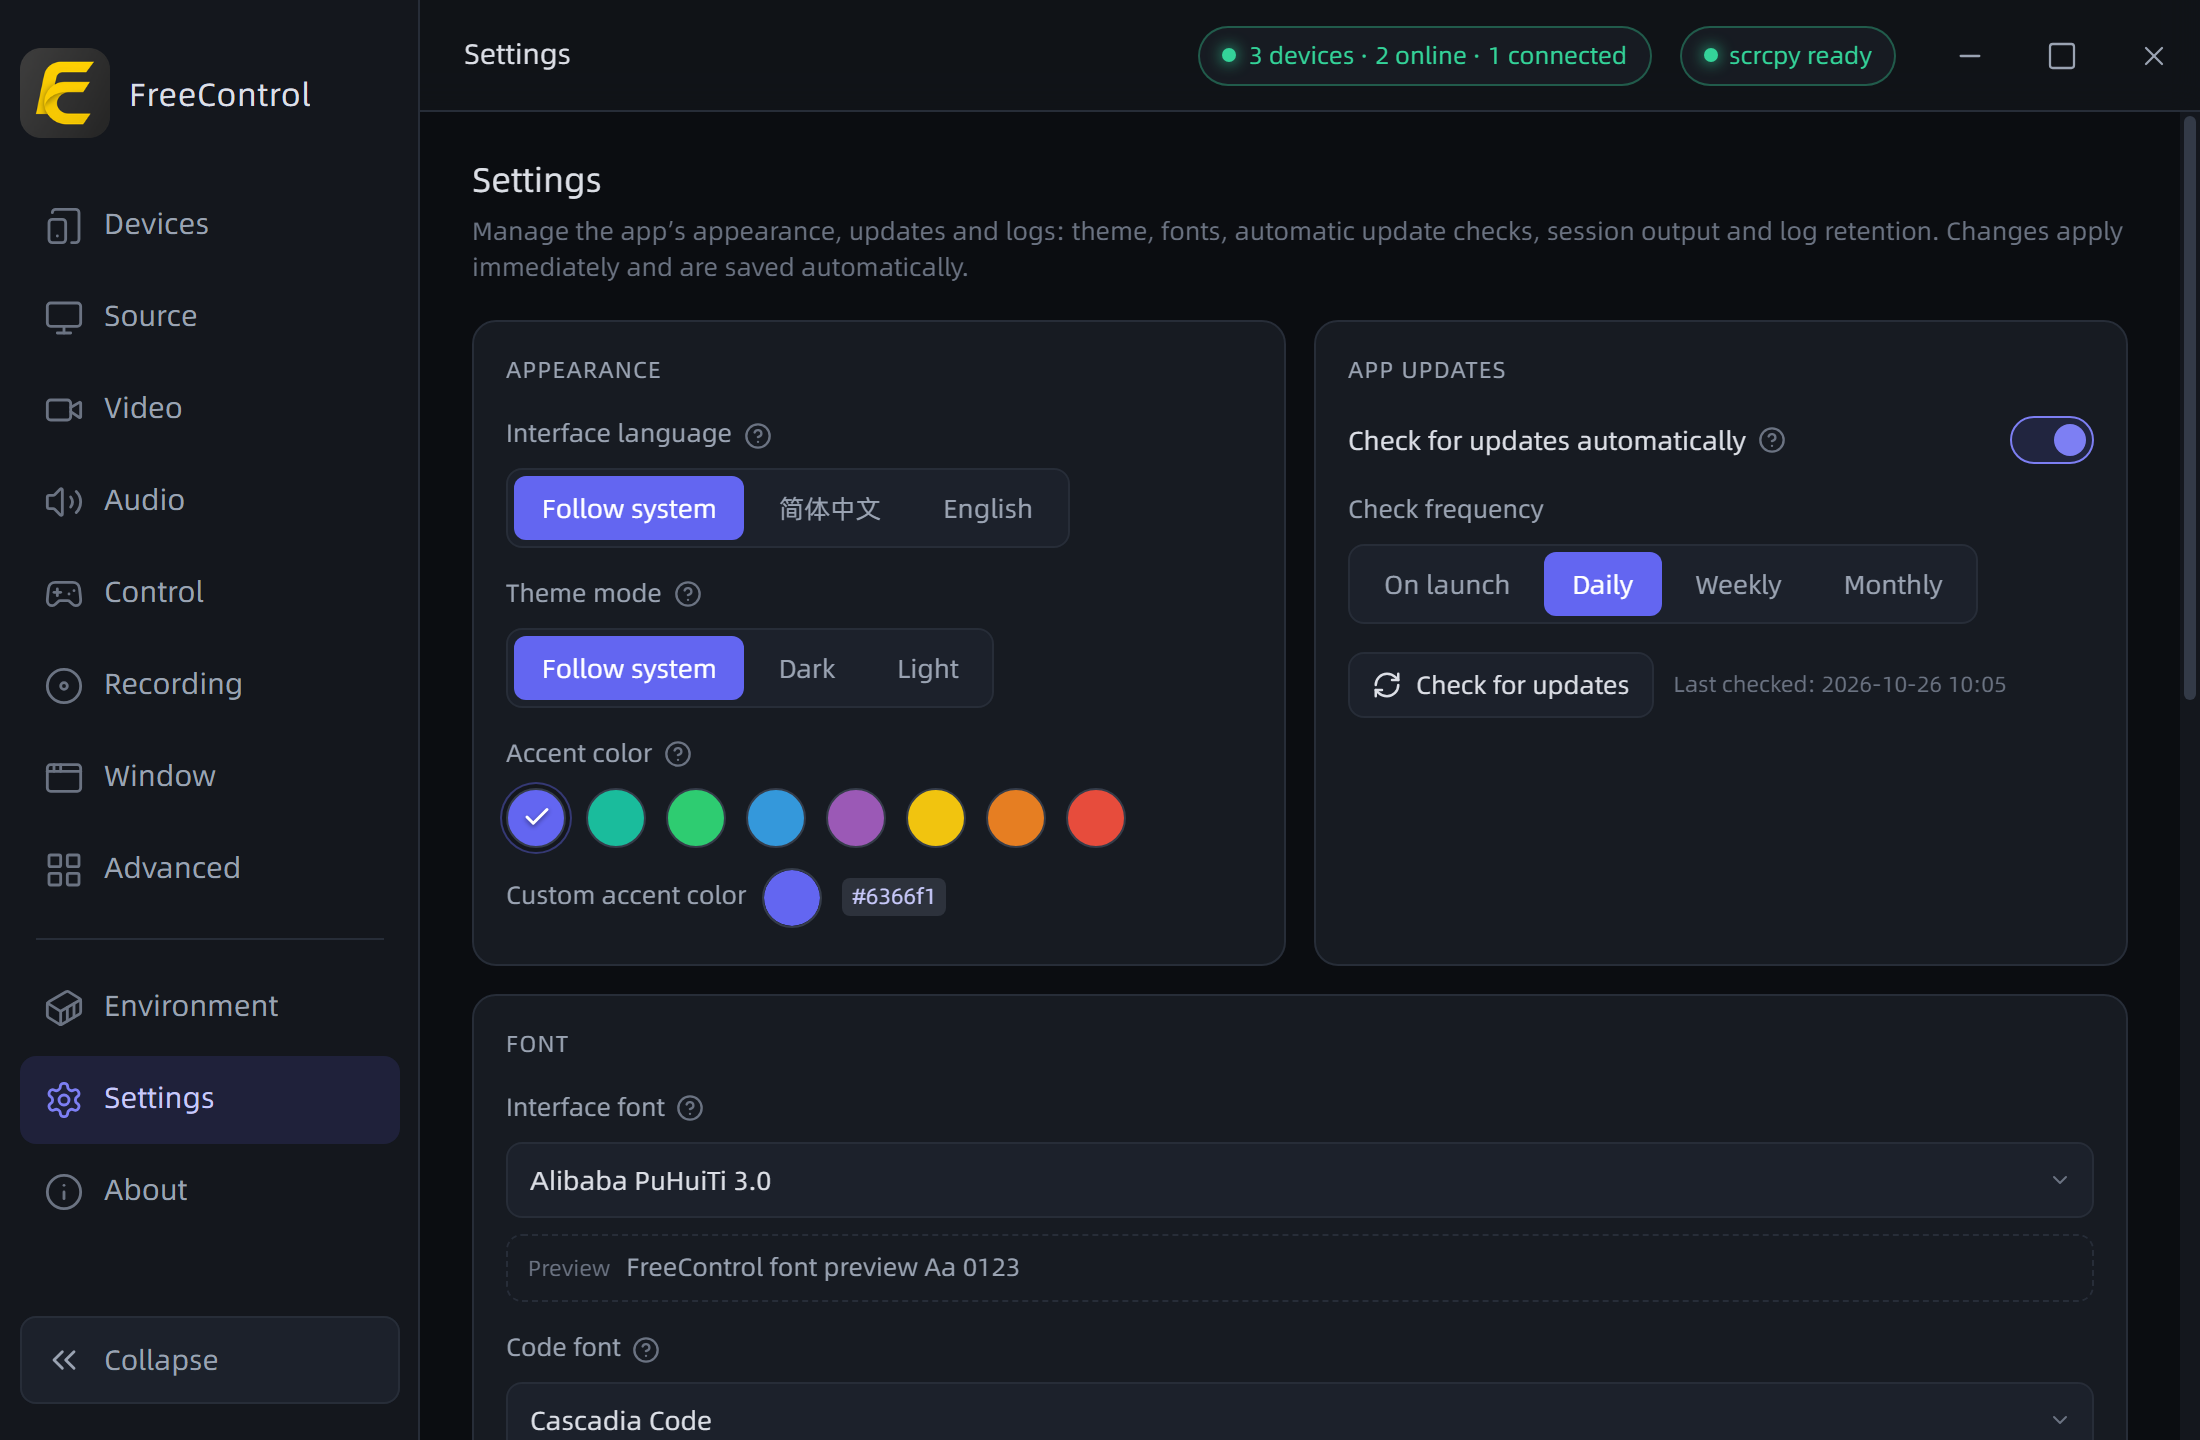
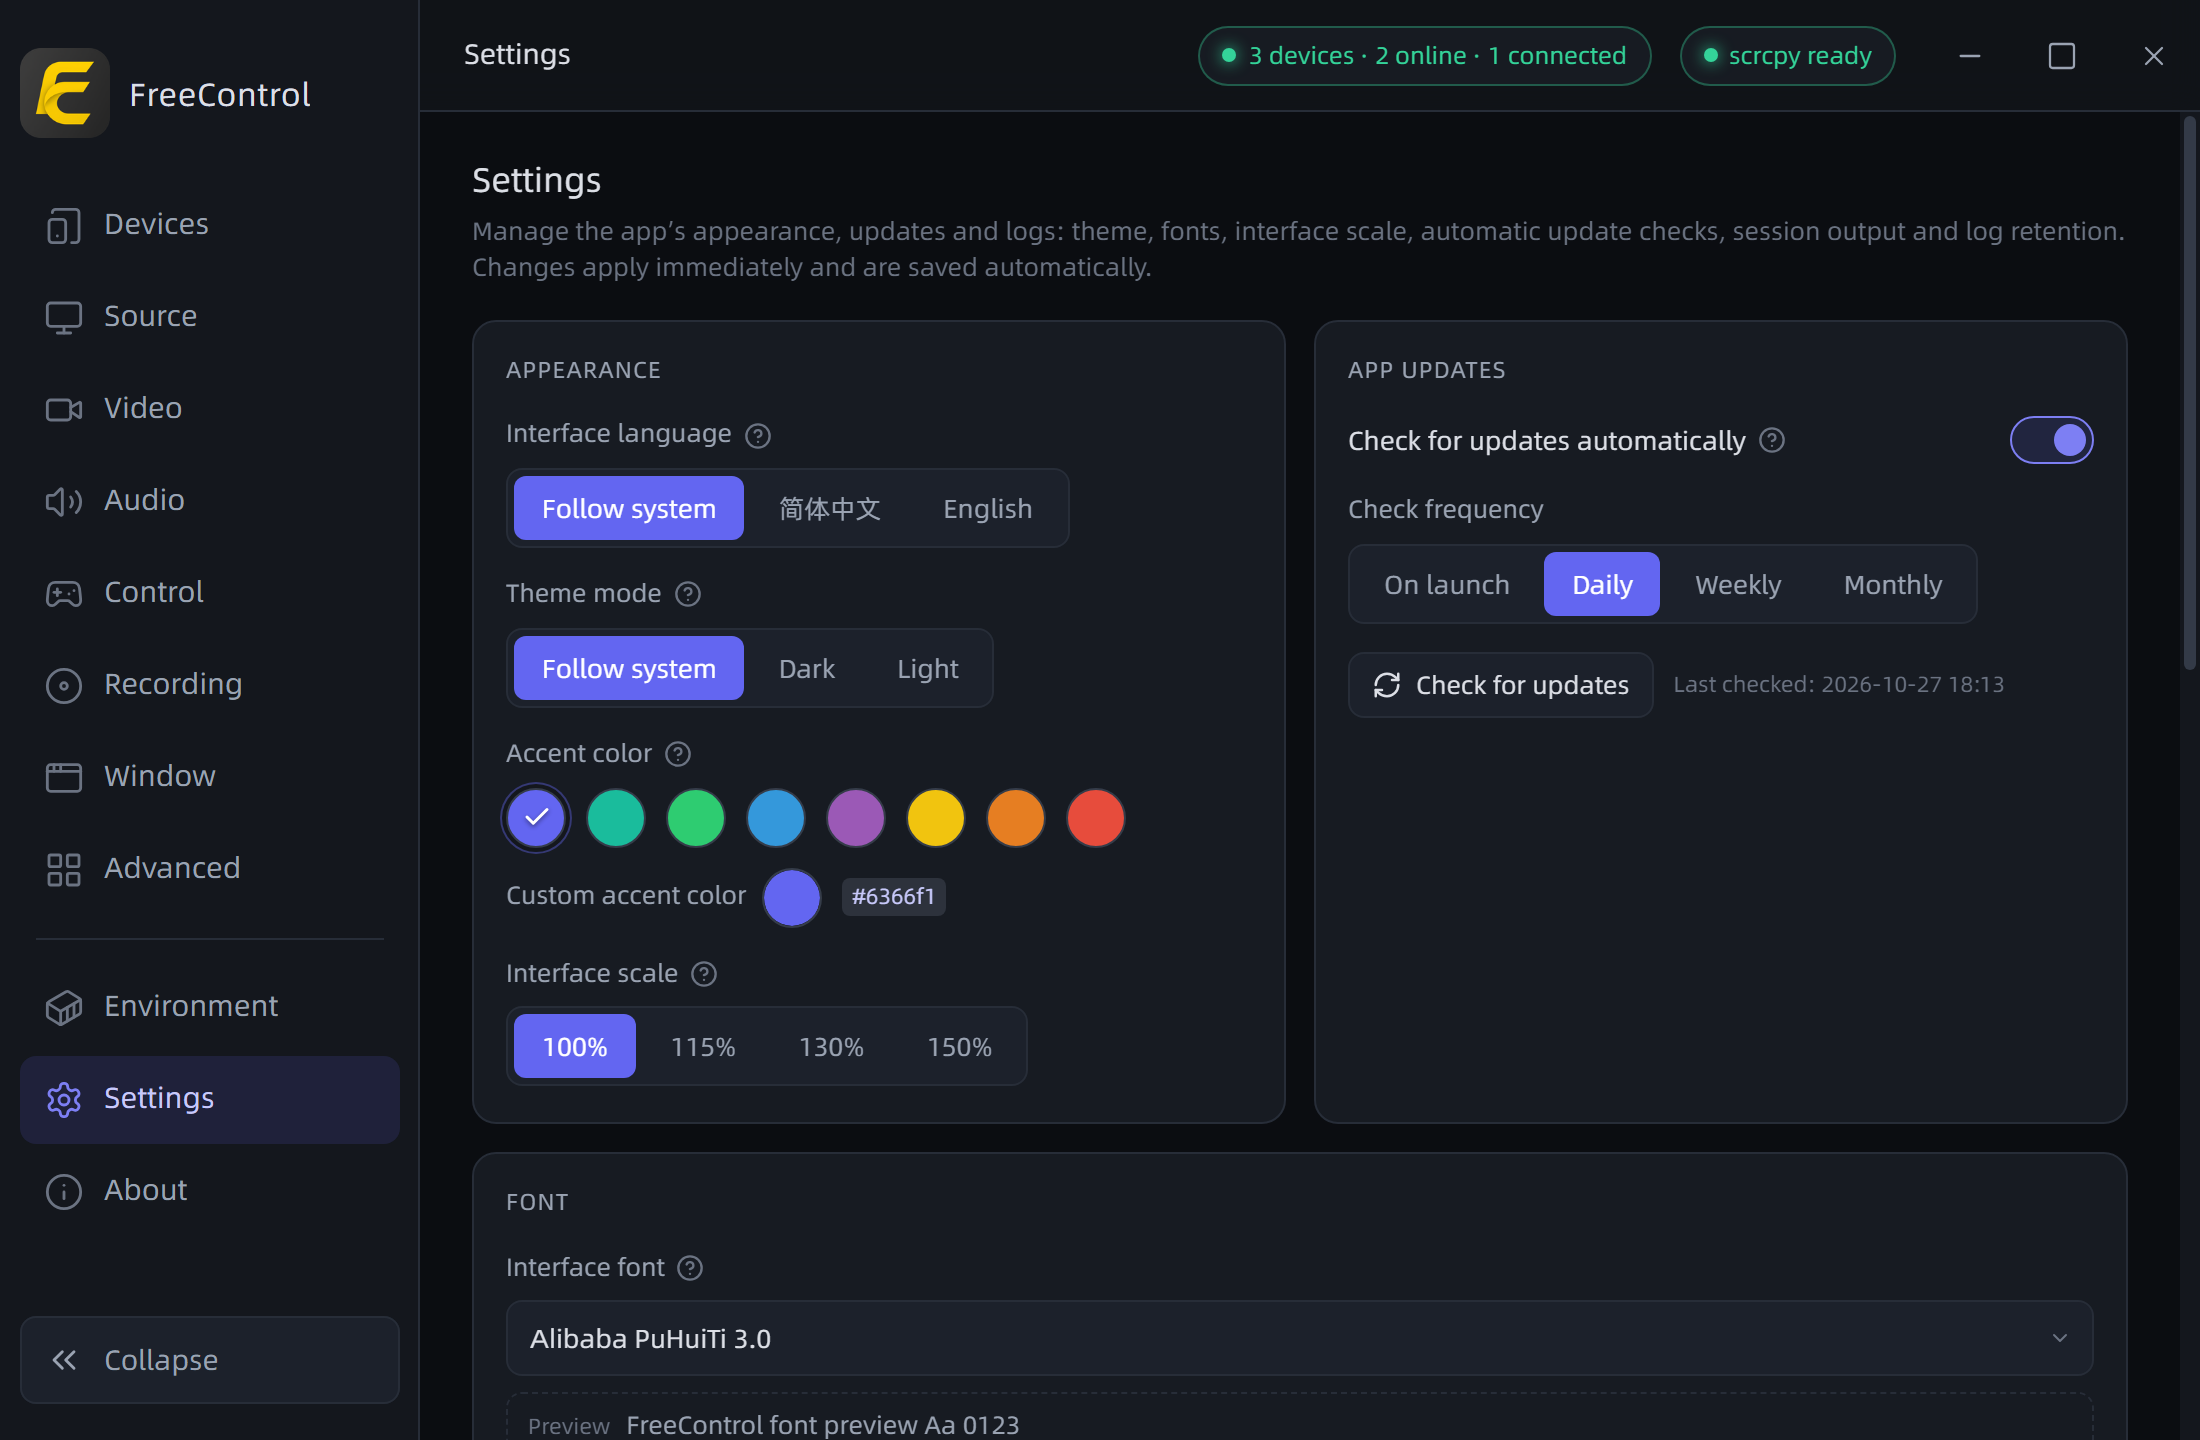
发行：版本升到 2.3.1，更新日志与官网、截图同批对齐
- 两份 README 与官网各补一条「界面缩放」，设置页截图重拍。
- 原型与官网预览里的版本取值跟到 2.3.1。

diff --git a/website/src/lib/i18n.ts b/website/src/lib/i18n.ts
@@ -48,6 +48,7 @@ const zh = {
       { icon: 'ScrollText', name: '日志', desc: '逐会话输出持久化，保留 7 天 / 30 天 / 永久（卡片在「设置」页）' },
       { icon: 'Terminal', name: '命令预览', desc: '底部显示将执行的完整命令，可一键复制' },
       { icon: 'Palette', name: '外观', desc: '深浅色主题与主题色可切换（默认跟随系统），侧栏可收成图标栏' },
+      { icon: 'Scale', name: '界面缩放', desc: '设置页可整体放大界面，分 100% / 115% / 130% / 150% 四档，文字、图标与间距一起变；档位随配置保存' },
       { icon: 'Type', name: '界面字体与代码字体', desc: '设置页可分别选择界面与代码区域的字体，缺字由对应系统默认栈补齐' },
       { icon: 'Languages', name: '界面语言', desc: '设置页可在简体中文与英文之间切换，也可跟随系统' },
     ],
@@ -220,6 +221,7 @@ const en: Dict = {
       { icon: 'ScrollText', name: 'Logs', desc: 'Per-session output persisted, kept for 7 days / 30 days / forever (the cards live on the Settings page)' },
       { icon: 'Terminal', name: 'Command preview', desc: 'The exact command about to run, shown at the bottom and copyable' },
       { icon: 'Palette', name: 'Appearance', desc: 'Light/dark themes and accent color, following the system by default, with a sidebar that collapses to an icon rail' },
+      { icon: 'Scale', name: 'Interface scale', desc: 'Enlarge the whole interface from the Settings page in four steps (100% / 115% / 130% / 150%), with text, icons and spacing growing together; the step is saved with your configuration' },
       { icon: 'Type', name: 'Interface and code fonts', desc: 'Choose separate fonts for the interface and code areas on the Settings page, with missing glyphs falling back to the matching system stack' },
       { icon: 'Languages', name: 'Interface language', desc: 'Switch the UI between Chinese and English on the Settings page, or follow the system' },
     ],

diff --git a/ui-design/launcher-prototype.html b/ui-design/launcher-prototype.html
@@ -3029,9 +3029,9 @@
      正式实现中：该值由 Tauri 的 getVersion()（取 tauri.conf.json 的构建期版本）下发，
      前端一律通过该 API 读取，页面里不得写版本字面量（见 about-page design D5）。
      ============================================================ */
-  const APP_VERSION = '2.3.0';
+  const APP_VERSION = '2.3.1';
   // 原型演示用的模拟最新版；产品侧由 GitHub 最新正式发行下发，不写死在界面里。
-  const UPDATE_LATEST_VERSION = '2.3.1';
+  const UPDATE_LATEST_VERSION = '2.3.2';
 
   // 每台设备的参数覆盖（仅覆盖的字段）
   const overrides = {};

diff --git a/Update.en.md b/Update.en.md
@@ -2,6 +2,17 @@
 
 <a href="Update.md">中文</a> | English
 
+## v2.3.1
+
+### Improved
+
+- Interface scale: the Settings page can enlarge the whole interface in four steps (100% / 115% / 130% / 150%), where text, icons, spacing and controls grow together rather than only the font size. The step is saved with your configuration, and the next start paints at it from the first frame.
+- Segmented options now slide: when you switch a segmented control on the Settings page or in a dialog, the highlight moves to the new choice instead of jumping.
+- With "check for updates automatically" turned off, the check-frequency row stays in place and is merely unavailable, instead of disappearing.
+- When the sidebar grows a scrollbar, the icons in the collapsed rail are no longer squeezed narrower.
+- The "About" dialog now only fades its backdrop in; the panel itself no longer scales.
+- The Linux desktop entry now carries an application category, so the installed app lands in the right menu group.
+
 ## v2.3.0
 
 > [!IMPORTANT]

diff --git a/README.en.md b/README.en.md
@@ -32,6 +32,7 @@
 - **Logs** — per-session output persisted, kept for 7 days / 30 days / forever (the cards live on the Settings page)
 - **Command preview** — the exact command about to run, shown at the bottom and copyable
 - **Appearance** — light/dark themes and accent color, following the system by default, with a sidebar that collapses to an icon rail
+- **Interface scale** — enlarge the whole interface from the Settings page in four steps (100% / 115% / 130% / 150%), with text, icons and spacing growing together; the step is saved with your configuration
 - **Interface and code fonts** — choose separate fonts for the interface and code areas on the Settings page, with missing glyphs falling back to the matching system stack
 - **Interface language** — switch the UI between Chinese and English on the Settings page, or follow the system
 

diff --git a/Update.md b/Update.md
@@ -2,6 +2,17 @@
 
 中文 | <a href="Update.en.md">English</a>
 
+## v2.3.1
+
+### 改进
+
+- 界面缩放：设置页可整体放大界面，分 100% / 115% / 130% / 150% 四档，文字、图标、间距与控件一起变而不只是字号；档位随配置保存，下次启动第一帧就按原档位绘制。
+- 分段选项改为滑动指示块：设置页与弹窗里的分段控件切换时，选中的高亮块滑向新位置，不再瞬移。
+- 关闭「自动检查更新」后，检查频率一行留在原位、只是不可选，不再整行消失。
+- 侧栏内容长到出现滚动条时，收起态的导航图标不再被压窄。
+- 「关于」弹窗只淡入遮罩，面板本身不再缩放。
+- Linux 的桌面条目补上应用分类，装好后在应用菜单里归到对应类别。
+
 ## v2.3.0
 
 > [!IMPORTANT]

diff --git a/README.md b/README.md
@@ -31,6 +31,7 @@
 - **日志** —— 逐会话输出持久化，保留 7 天 / 30 天 / 永久（卡片在「设置」页）
 - **命令预览** —— 底部显示将执行的完整命令，可一键复制
 - **外观** —— 深浅色主题与主题色可切换（默认跟随系统），侧栏可收成图标栏
+- **界面缩放** —— 设置页可整体放大界面，100% / 115% / 130% / 150% 四档，文字、图标与间距一起变；档位随配置保存
 - **界面字体与代码字体** —— 设置页可分别选择界面与代码区域的字体，缺字由对应系统默认栈补齐
 - **界面语言** —— 设置页可在简体中文与英文之间切换，也可跟随系统
 
